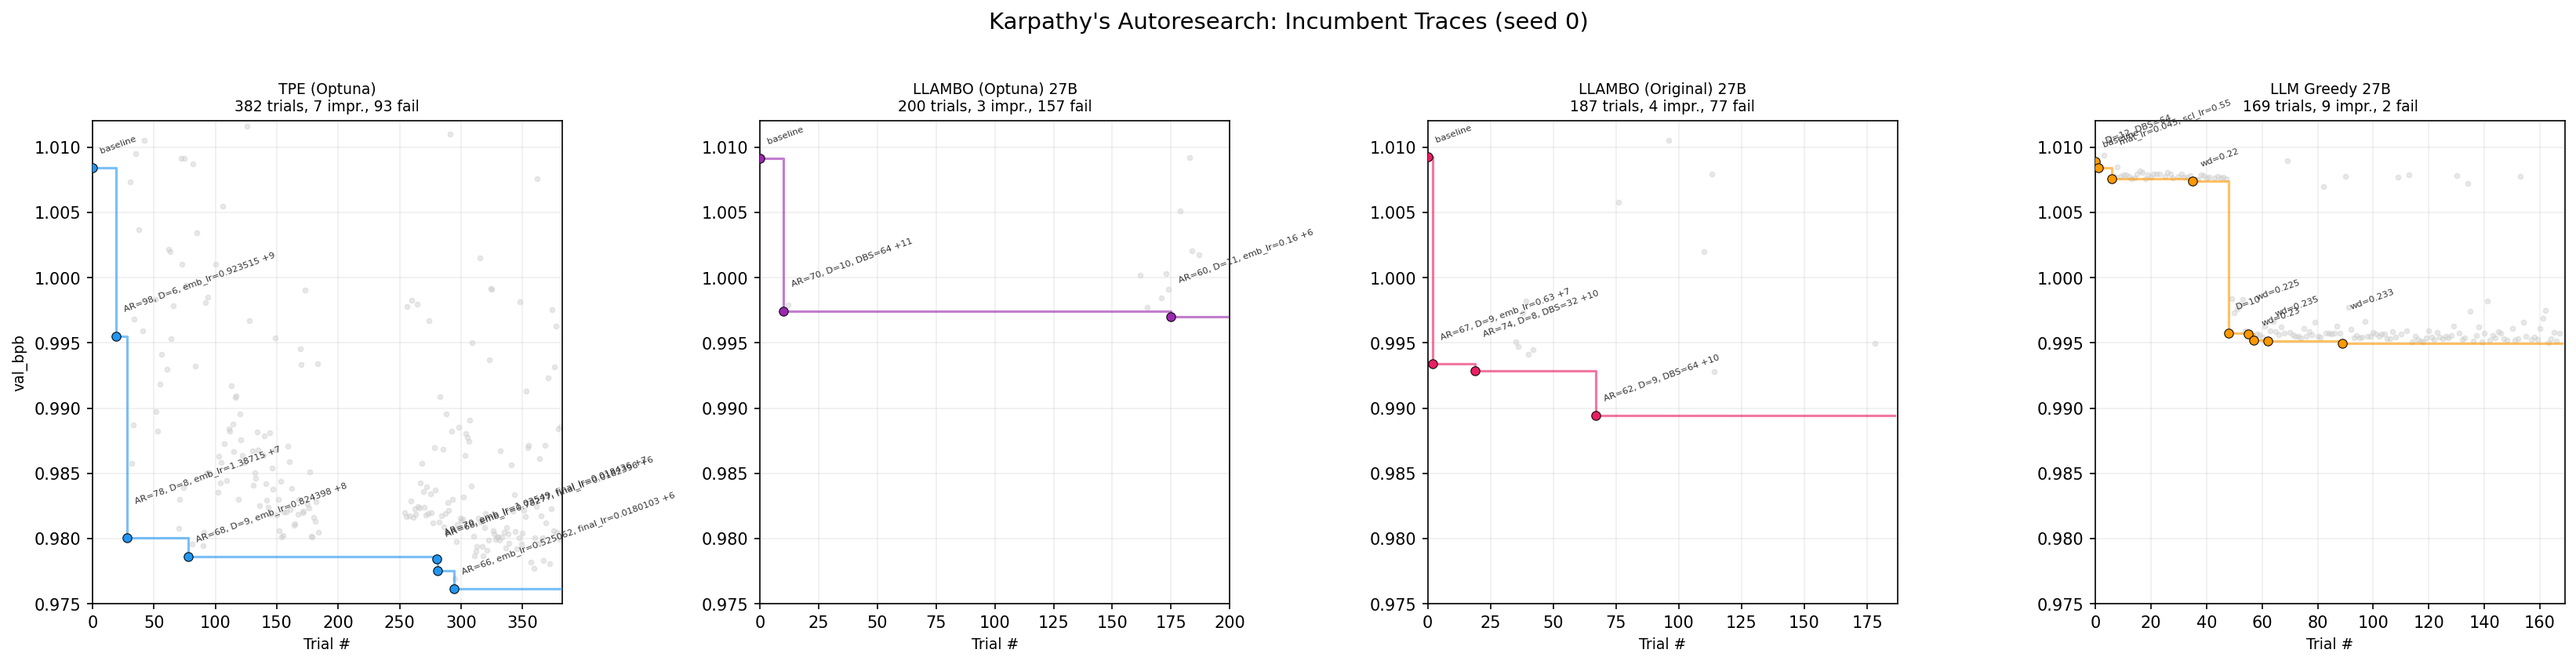
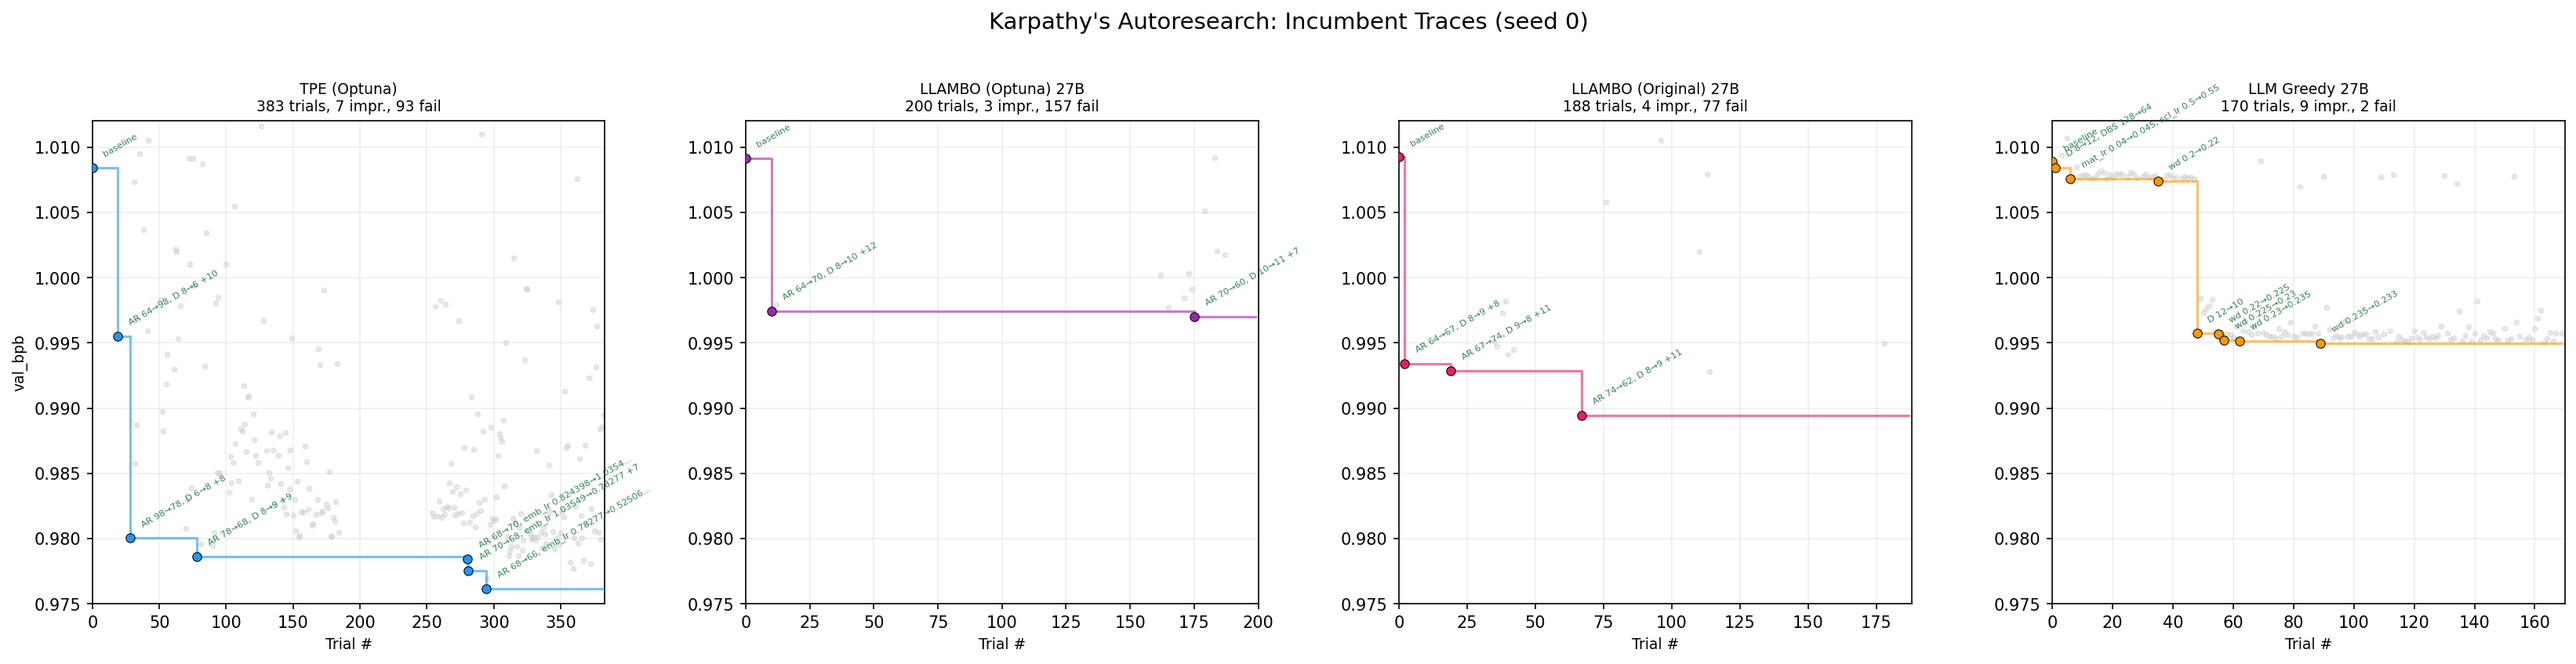
Karpathy-style incumbent labels: old→new format, clip to axes, green text

diff --git a/scripts/plot_convergence.py b/scripts/plot_convergence.py
@@ -189,13 +189,16 @@ def _format_val(v):
     return str(v)
 
 
-def _config_diff(prev: dict, curr: dict, max_diffs: int = 3) -> str:
-    """Summarize key HP changes between two configs."""
+def _config_diff(prev: dict, curr: dict, max_diffs: int = 2) -> str:
+    """Karpathy-style HP change description: 'warmdown 0.5→0.7, TBS 524K→262K'."""
     diffs = []
     for hp in curr:
         if hp not in prev or prev[hp] != curr[hp]:
             short = HP_SHORT.get(hp, hp)
-            diffs.append(f"{short}={_format_val(curr[hp])}")
+            if hp in prev:
+                diffs.append(f"{short} {_format_val(prev[hp])}→{_format_val(curr[hp])}")
+            else:
+                diffs.append(f"{short}={_format_val(curr[hp])}")
     if not diffs:
         return "baseline"
     if len(diffs) > max_diffs:
@@ -257,27 +260,21 @@ def plot_progress_single(
         ax.step(stair_x, stair_y, where="post", color=color,
                 linewidth=2, alpha=0.6, zorder=3, label="Running best")
 
-    # Annotate incumbents with config diffs
+    # Annotate incumbents — Karpathy style
     prev_config = None
     for idx, (trial_i, val, config) in enumerate(incumbents):
         if prev_config is None:
             label = "baseline"
         else:
             label = _config_diff(prev_config, config)
+            if len(label) > 45:
+                label = label[:42] + "..."
         prev_config = config
-
-        # Alternate annotation side to avoid overlap
-        y_offset = 12 if idx % 2 == 0 else -14
         ax.annotate(
-            label,
-            xy=(trial_i, val),
-            xytext=(5, y_offset),
-            textcoords="offset points",
-            fontsize=7,
-            color="#333333",
-            rotation=25,
-            ha="left",
-            va="bottom" if y_offset > 0 else "top",
+            label, xy=(trial_i, val), xytext=(6, 6),
+            textcoords="offset points", fontsize=8, color="#1a7a3a",
+            alpha=0.9, rotation=30, ha="left", va="bottom",
+            annotation_clip=True,
         )
 
     n_fail = sum(1 for t in trials if not t.get("success", False))
@@ -363,21 +360,20 @@ def plot_progress_subplot(ax, bench_dir, backend_name, display_name, color):
         ax.step(stair_x, stair_y, where="post", color=color,
                 linewidth=1.5, alpha=0.6, zorder=3)
 
-    # Annotate incumbents — always place labels above to avoid clipping
+    # Annotate incumbents — Karpathy style: fixed offset, rotation, clip
     prev_config = None
-    ylim_lo, ylim_hi = 0.975, 1.012
     for idx, (trial_i, val, config) in enumerate(incumbents):
         if prev_config is None:
             label = "baseline"
         else:
             label = _config_diff(prev_config, config)
+            if len(label) > 35:
+                label = label[:32] + "..."
         prev_config = config
-        # Place above the point; cycle offsets to reduce overlap
-        y_offset = 8 + (idx % 3) * 6
         ax.annotate(
-            label, xy=(trial_i, val), xytext=(4, y_offset),
-            textcoords="offset points", fontsize=5.5, color="#333333",
-            rotation=20, ha="left", va="bottom",
+            label, xy=(trial_i, val), xytext=(6, 6),
+            textcoords="offset points", fontsize=5.5, color="#1a7a3a",
+            alpha=0.9, rotation=30, ha="left", va="bottom",
             annotation_clip=True,
         )
 
@@ -385,7 +381,7 @@ def plot_progress_subplot(ax, bench_dir, backend_name, display_name, color):
     ax.set_title(f"{display_name}\n{len(trials)} trials, {len(incumbents)} impr., {n_fail} fail",
                  fontsize=9)
     ax.set_xlim(0, len(trials))
-    ax.set_ylim(ylim_lo, ylim_hi)
+    ax.set_ylim(0.975, 1.012)
     ax.grid(True, alpha=0.2)
 
 
